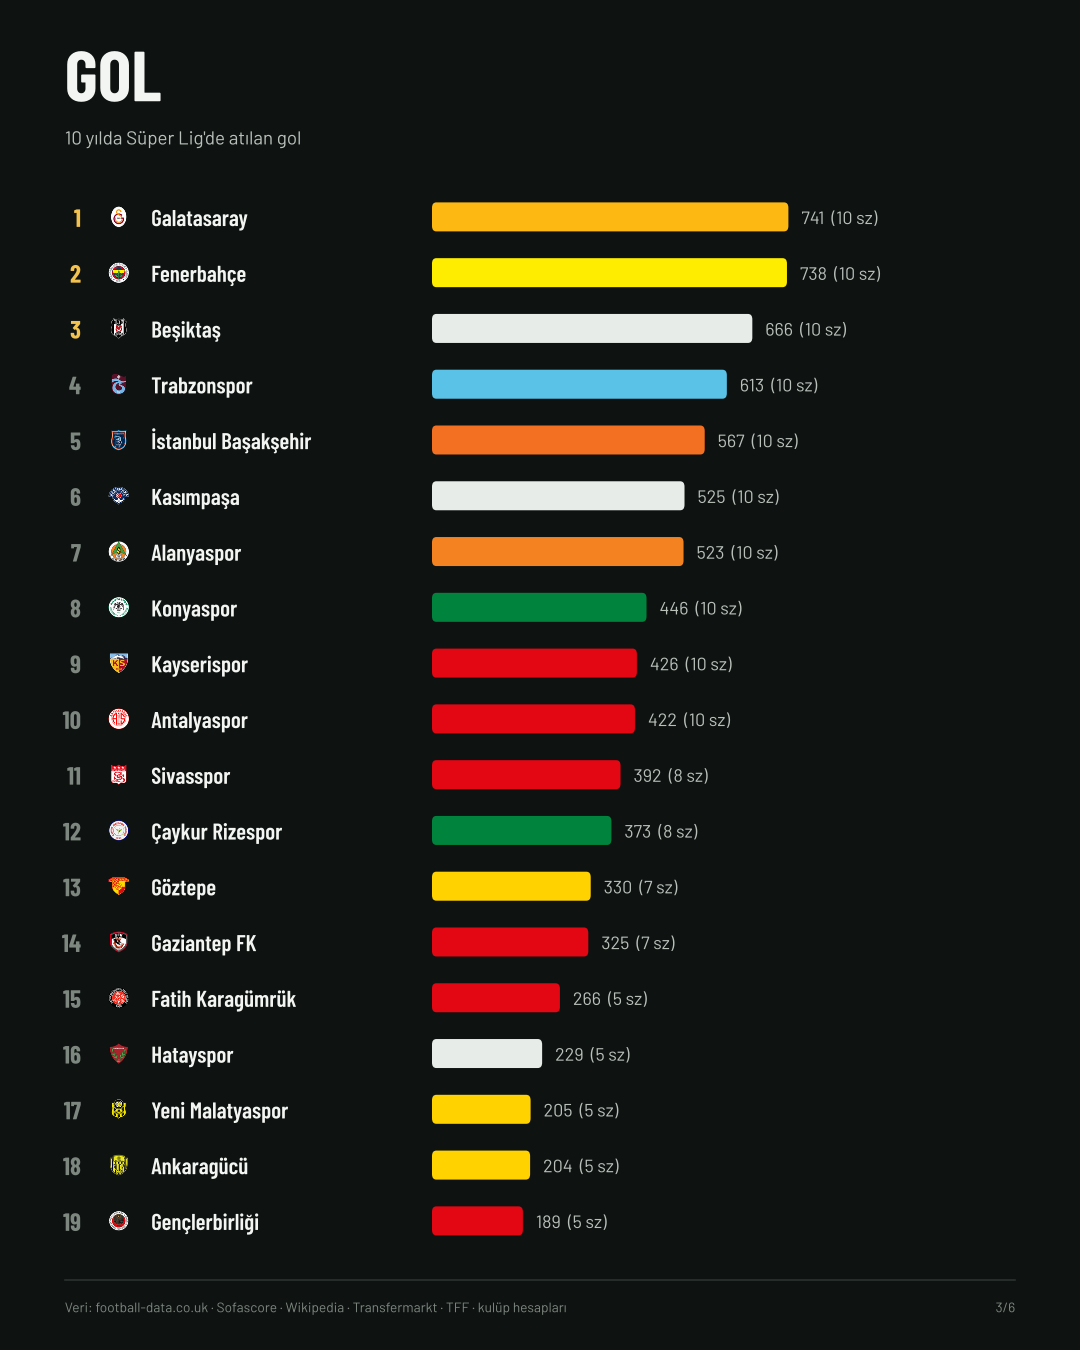
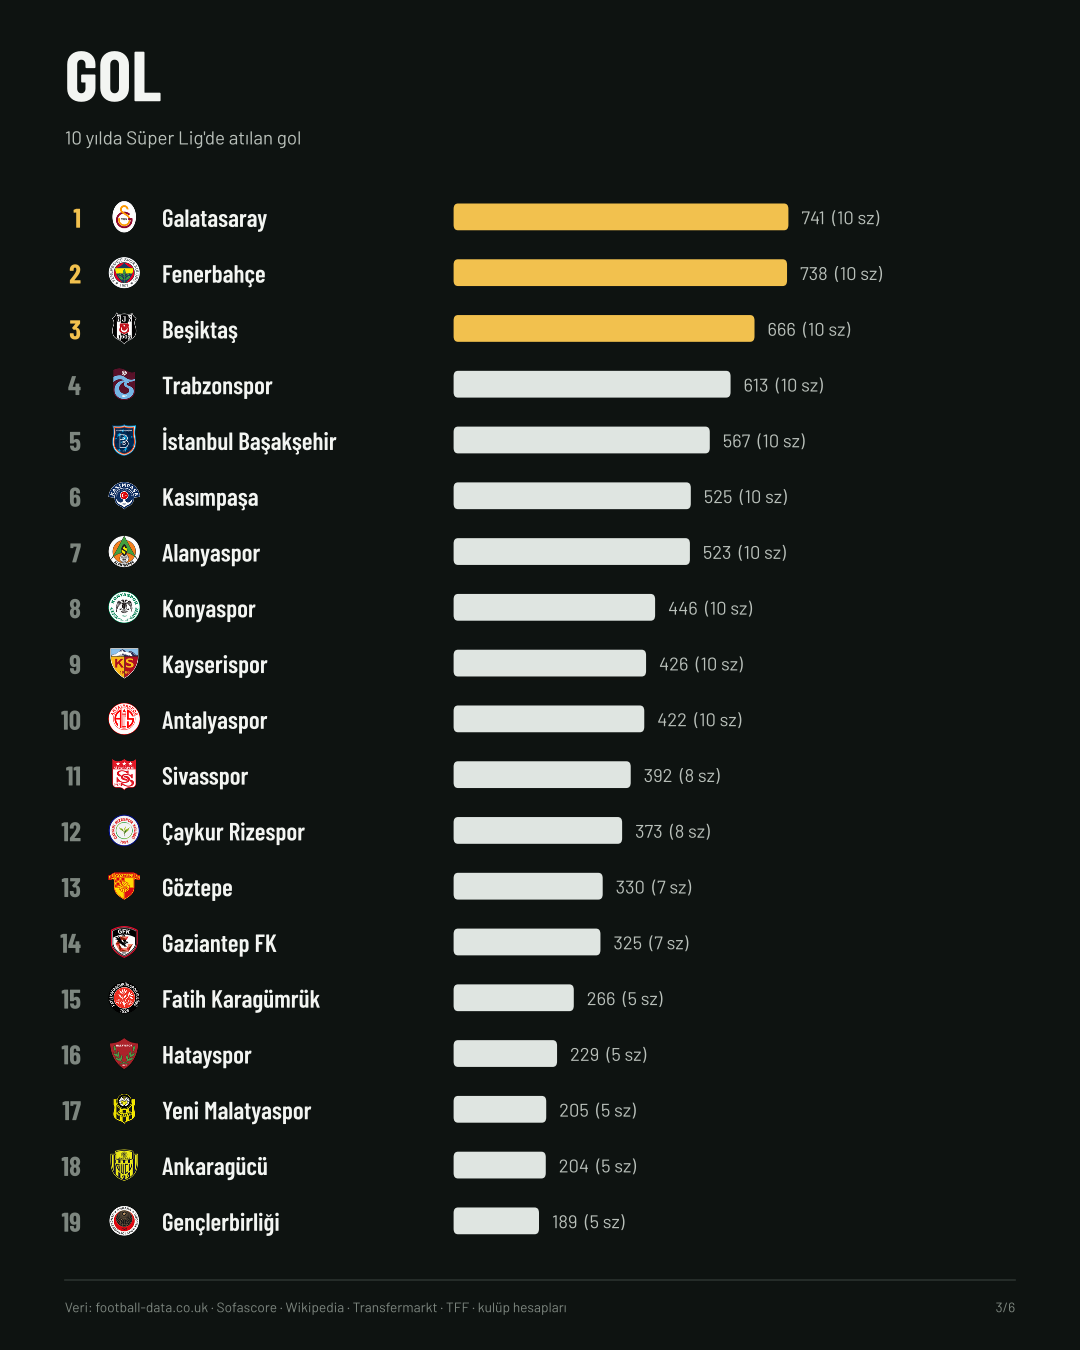
Instagram metrik slaytları: tek renk + ilk 3 vurgusu, düşük güven işareti, eksik veri listesi; kartta xG
Claude-Session: https://claude.ai/code/session_01ReEgfLLAVrHg6JcMw2u4FY

Changed region(s): [[0.3972, 0.1244, 0.825, 0.9333], [0.0917, 0.1556, 0.3056, 0.9333]]

diff --git a/superlig/insta.py b/superlig/insta.py
@@ -162,15 +162,17 @@ def team_card(row, avg, rank, n, path):
     scores = [row[f"skor_{k}"] for k, _ in scorecard.AXES]
     vals = ["veri yok" if pd.isna(v) else _tr(v) for v in scores]
     radar(ax, scores, col, avg=avg, labels=[l for _, l in scorecard.AXES], label_vals=vals)
-    _text(fig, 0.5, 0.338, "— — lig ortalaması (19 kulüp)  ·  skorlar 19 kulüp arasında 0-100", 7.2, MUTED,
-          ha="center", va="center")
+    fig.add_artist(plt.Line2D([0.235, 0.275], [0.338, 0.338], color=MUTED, lw=1.1, ls=(0, (3, 2.5))))
+    _text(fig, 0.285, 0.338, "lig ortalaması (19 kulüp)  ·  skorlar 19 kulüp arasında 0-100", 7.2, MUTED,
+          va="center")
 
     tiles = [
         ("SADAKAT", f"%{_tr(row.get('doluluk_10y', np.nan) * 100)}" if pd.notna(row.get("doluluk_10y")) else "—",
          f"doluluk · {_compact(row.get('takipci_toplam'))} takipçi ({_tr(row.get('takipci_platform'))} platform)"),
         ("BAŞARI", _tr(row.get("kupa_10y")) + (" kupa" if pd.notna(row.get("kupa_10y")) else ""),
          f"Lig {_tr(row.get('super_lig'))} · Kupa {_tr(row.get('turkiye_kupasi'))} · Süper K. {_tr(row.get('super_kupa'))}"),
-        ("GOL", _tr(row.gol_10y), f"{_tr(row.sezon_sayisi)} sezon · maç başı {_tr(row.gol_10y / row.mac, 2)}"),
+        ("GOL", _tr(row.gol_10y), f"maç başı {_tr(row.gol_10y / row.mac, 2)}"
+         + (f" · xG {_tr(row.xg_mac_basi, 2)} (22-26)" if pd.notna(row.get("xg_mac_basi")) else f" · {_tr(row.sezon_sayisi)} sezon")),
         ("GALİBİYET", _tr(row.galibiyet_10y), f"{_tr(row.mac)} maçta · %{_tr(row.galibiyet_10y / row.mac * 100)}"),
         ("FORMA", (_tr(row.get("forma_reel_ort_TL")) + " TL") if pd.notna(row.get("forma_reel_ort_TL")) else "—",
          _forma_sub(row)),
@@ -220,7 +222,7 @@ def cover(df, avg, path):
 # ------------------------------------------------------------------ metrik sıralaması
 METRIC_SLIDES = [
     ("sadakat", "SADAKAT", "Doluluk oranı (10 yıl, 2021-22 hariç) + 5 platform takipçi (log ölçek)", "skor_sadakat",
-     lambda r: f"%{_tr(r.get("doluluk_10y", float("nan")) * 100)} · {_compact(r.get("takipci_toplam"))}" if pd.notna(r.get("doluluk_10y")) else _compact(r.get("takipci_toplam"))),
+     lambda r: f"%{_tr(r.get("doluluk_10y", float("nan")) * 100)} doluluk · {_compact(r.get("takipci_toplam"))} takipçi" if pd.notna(r.get("doluluk_10y")) else _compact(r.get("takipci_toplam"))),
     ("basari", "BAŞARI", "10 yılda Süper Lig + Türkiye Kupası + Süper Kupa", "kupa_10y",
      lambda r: f"{_tr(r.kupa_10y)} kupa"),
     ("gol", "GOL", "10 yılda Süper Lig'de atılan gol", "gol_10y", lambda r: f"{_tr(r.gol_10y)}  ({int(r.sezon_sayisi)} sz)"),
@@ -233,28 +235,38 @@ METRIC_SLIDES = [
 ]
 
 
-def metric_slide(df, key, title, subtitle, col, fmt, path, page):
+def metric_slide(df, key, title, subtitle, col, fmt, path, page, weak=None, weak_label=None):
     if col not in df or df[col].notna().sum() == 0:
         return False
     d = df.dropna(subset=[col]).sort_values(col, ascending=False).reset_index(drop=True)
+    missing = [t for t in df.takim if t not in set(d.takim)]
     fig = _fig()
     _text(fig, 0.06, 0.925, title, 34, INK, COND, "bold")
     _text(fig, 0.06, 0.893, subtitle, 9, INK2)
     n = len(d)
-    top, bottom = 0.86, 0.075
+    top, bottom = 0.86, 0.105 if (missing or weak_label) else 0.075
     rowh = (top - bottom) / max(n, 1)
     vmax = d[col].max()
     for i, r in d.iterrows():
         y = top - (i + 0.5) * rowh
-        _text(fig, 0.075, y, str(i + 1), 12, GOLD if i < 3 else MUTED, COND, "bold", ha="right", va="center")
-        _place_logo(fig, r.takim, 0.11, y, 22)
-        _text(fig, 0.14, y, r.takim, 11, INK, COND, "semibold", va="center")
-        x0, wmax = 0.40, 0.33
+        _text(fig, 0.075, y, str(i + 1), 13, GOLD if i < 3 else MUTED, COND, "bold", ha="right", va="center")
+        _place_logo(fig, r.takim, 0.115, y, 34)
+        _text(fig, 0.15, y, r.takim, 12, INK, COND, "semibold", va="center")
+        x0, wmax = 0.42, 0.31
         w = wmax * (r[col] / vmax if vmax else 0)
-        fig.add_artist(FancyBboxPatch((x0, y - rowh * 0.26), max(w, 0.004), rowh * 0.52,
+        low = bool(weak(r)) if weak else False
+        fig.add_artist(FancyBboxPatch((x0, y - rowh * 0.24), max(w, 0.004), rowh * 0.48,
                                       boxstyle="round,pad=0,rounding_size=0.004", transform=fig.transFigure,
-                                      facecolor=accent(r.takim), edgecolor="none"))
-        _text(fig, x0 + w + 0.012, y, fmt(r), 8.6, INK2, va="center")
+                                      facecolor=GOLD if i < 3 else "#dfe5e1", alpha=0.35 if low else 1,
+                                      edgecolor="none"))
+        _text(fig, x0 + w + 0.012, y, fmt(r), 8.8, MUTED if low else INK2, va="center")
+    notes = []
+    if weak_label:
+        notes.append(weak_label)
+    if missing:
+        notes.append("Veri yok: " + ", ".join(missing))
+    for j, t in enumerate(notes):
+        _text(fig, 0.06, 0.08 - j * 0.017, t, 7.2, MUTED)
     _footer(fig, page)
     fig.savefig(path, dpi=DPI, facecolor=BG)
     plt.close(fig)
@@ -276,6 +288,11 @@ def render_all():
     page = 0
     for key, title, sub, col, fmt in METRIC_SLIDES:
         page += 1
-        metric_slide(df, key, title, sub, col, fmt, OUT / f"metrik_{page}_{key}.png", f"{page}/6")
+        weak, wl = None, None
+        if key == "forma":
+            weak, wl = (lambda r: r.forma_sezon < 2), "Soluk çubuk: yalnız 1 sezonun fiyatı bulundu (düşük güven) · sz = fiyatı bulunan sezon sayısı"
+        elif key == "sadakat":
+            weak, wl = (lambda r: r.get("takipci_platform", 5) < 3), "Soluk çubuk: 3'ten az platformda takipçi verisi · Karagümrük doluluğu belirsiz (hangi stadın kapasitesi esas alınacağı net değil)"
+        metric_slide(df, key, title, sub, col, fmt, OUT / f"metrik_{page}_{key}.png", f"{page}/6", weak, wl)
     log.info("Instagram görselleri: %s", OUT)
     return df
